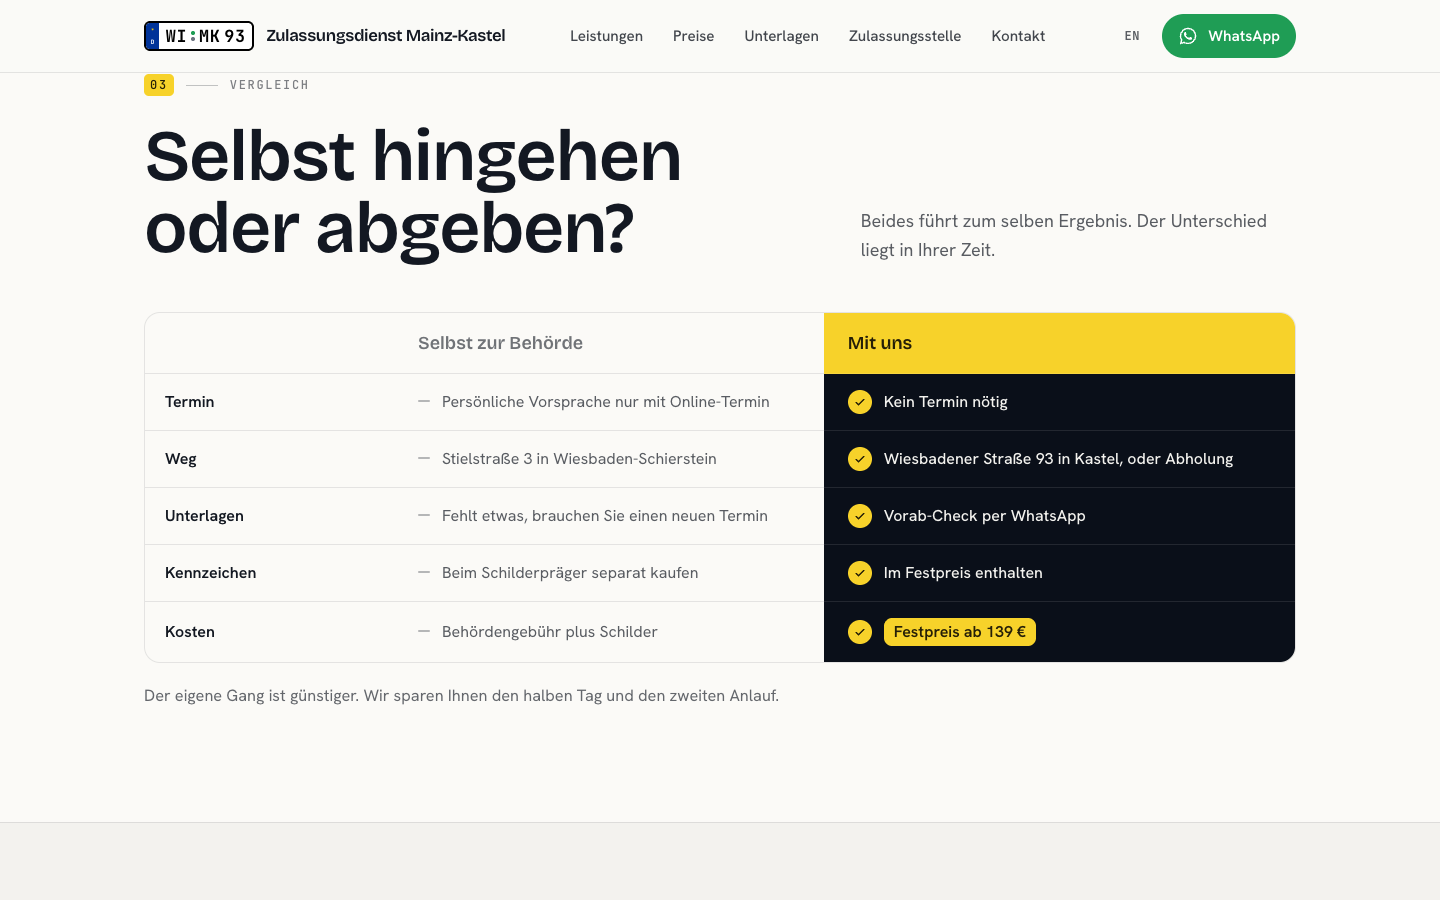
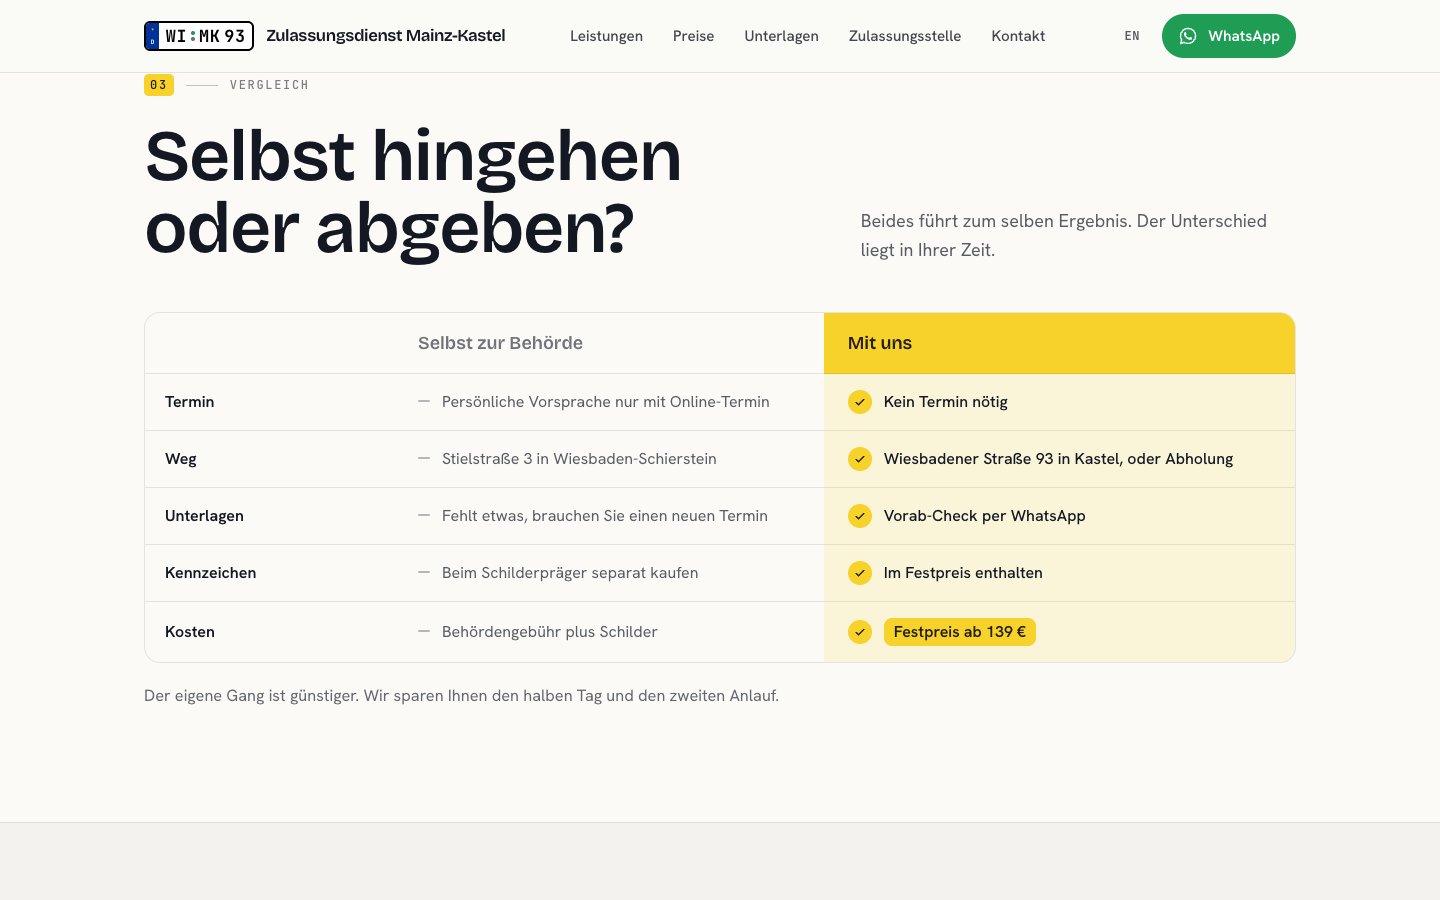
Lighten the 'Mit uns' comparison column
Replace the dark background with a faint yellow tint and dark text, on
desktop and on the phone cards. Yellow header, checks and price tag stay.

Changed region(s): [[0.5625, 0.4044, 0.9062, 0.7467]]

diff --git a/src/components/home.tsx b/src/components/home.tsx
@@ -217,7 +217,7 @@ export function HomePage({ lang }: { lang: Lang }) {
                 <span className="sr-only">{c.compareHead[1]}: </span>
                 {row[1]}
               </p>
-              <p className="flex items-start gap-2.5 bg-neutral px-4 py-3 text-[0.98rem] font-semibold text-neutral-content">
+              <p className="flex items-start gap-2.5 border-t border-base-content/10 bg-secondary/15 px-4 py-3 text-[0.98rem] font-semibold text-base-content">
                 <span className="mt-0.5 flex size-5 shrink-0 items-center justify-center rounded-full bg-secondary text-secondary-content">
                   <CheckIcon className="size-3" />
                 </span>
@@ -252,7 +252,7 @@ export function HomePage({ lang }: { lang: Lang }) {
                         {row[1]}
                       </span>
                     </td>
-                    <td className="border-t border-white/10 bg-neutral px-6 py-4 align-middle font-medium text-neutral-content">
+                    <td className="bg-secondary/15 px-6 py-4 align-middle font-medium text-base-content">
                       <span className="flex items-center gap-3">
                         <span aria-hidden="true" className="flex size-6 shrink-0 items-center justify-center rounded-full bg-secondary text-secondary-content">
                           <CheckIcon className="size-3.5" />
